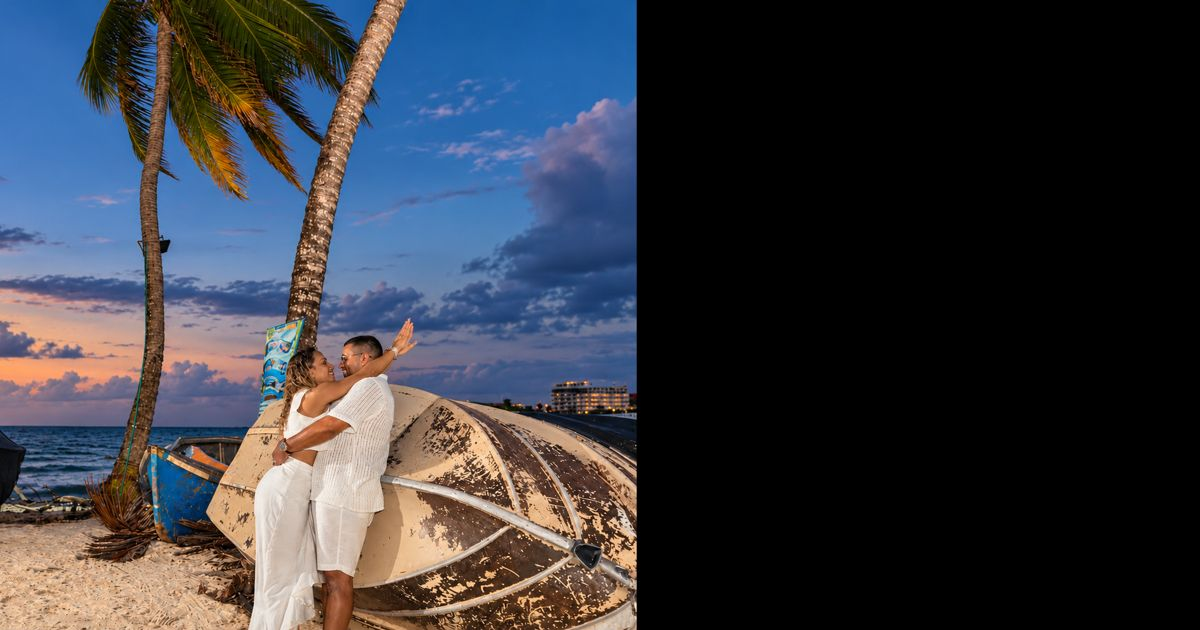
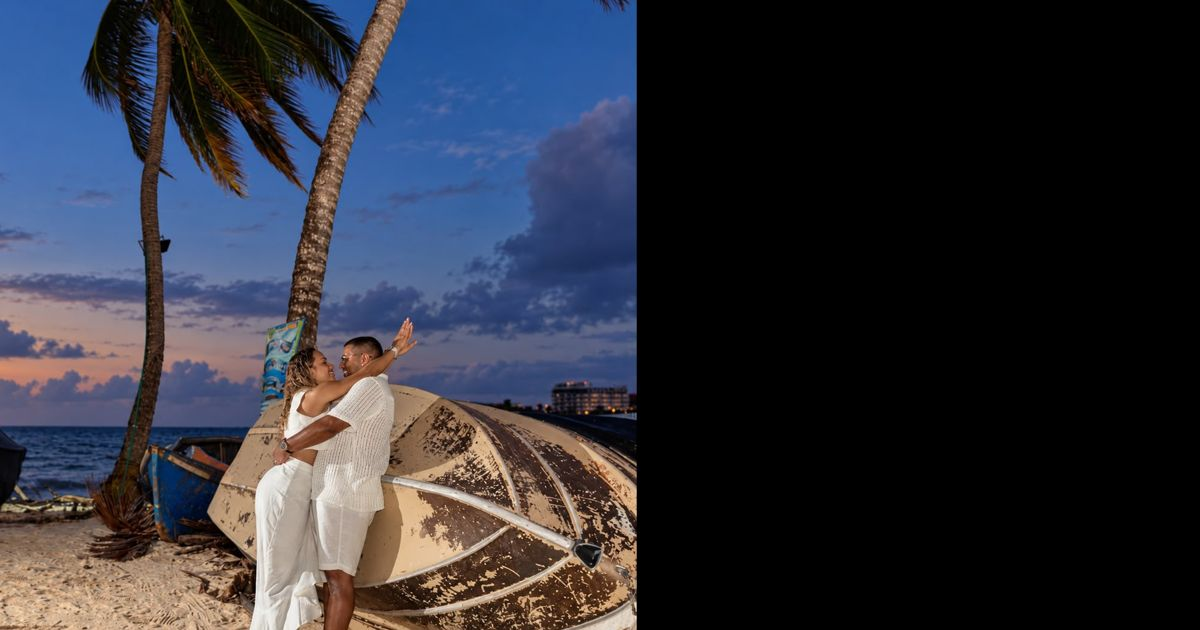
Remove envelope letter, add light burst on open with direct transition to video; restore previous sunset photo
Claude-Session: https://claude.ai/code/session_019F132VGiKqYndudBvgFJkK

diff --git a/index.html b/index.html
@@ -11,7 +11,7 @@
 <meta property="og:title" content="Deivin & Yuliana · Nos casamos">
 <meta property="og:description" content="Con amor y mucha ilusión, te invitamos a celebrar con nosotros · 20.03.2027">
 <meta property="og:image" content="https://karenquinteroboni.github.io/Deivin-Yuliana/assets/img/og.jpg">
-<link rel="preload" as="image" href="assets/img/seal.webp?v=3">
+<link rel="preload" as="image" href="assets/img/seal.webp?v=4">
 <link rel="stylesheet" href="css/fonts.css">
 <link rel="stylesheet" href="css/styles.css">
 </head>
@@ -34,22 +34,15 @@
     <div class="envelope" id="envelope">
       <div class="env-back"></div>
 
-      <div class="letter">
-        <img class="letter-mono" src="assets/img/seal.webp?v=3" alt="" width="120">
-        <p class="letter-small">Con amor y mucha ilusión</p>
-        <p class="letter-for" id="letterFor" hidden></p>
-        <p class="letter-small">20 · 03 · 2027</p>
-      </div>
-
       <div class="flap" id="flap">
-        <div class="flap-face flap-front"><img class="orn orn-top" src="assets/img/orn-top.svg?v=3" alt=""></div>
+        <div class="flap-face flap-front"><img class="orn orn-top" src="assets/img/orn-top.svg?v=4" alt=""></div>
         <div class="flap-face flap-inner"></div>
       </div>
       <div class="pocket"></div>
 
-      <img class="orn orn-side orn-left" src="assets/img/orn-side.svg?v=3" alt="">
-      <img class="orn orn-side orn-right" src="assets/img/orn-side.svg?v=3" alt="">
-      <img class="orn orn-bottom" src="assets/img/orn-bottom.svg?v=3" alt="">
+      <img class="orn orn-side orn-left" src="assets/img/orn-side.svg?v=4" alt="">
+      <img class="orn orn-side orn-right" src="assets/img/orn-side.svg?v=4" alt="">
+      <img class="orn orn-bottom" src="assets/img/orn-bottom.svg?v=4" alt="">
 
       <!-- líneas de pliegue + luces que recorren el sobre desde el sello (se dimensionan por JS) -->
       <svg class="lines" id="lines" aria-hidden="true">
@@ -67,17 +60,20 @@
       </svg>
 
       <button class="seal" id="seal" type="button" aria-label="Abrir invitación: toca el sello">
-        <img src="assets/img/seal.webp?v=3" alt="Sello de lacre con las iniciales D y Y" width="260" height="270">
+        <img src="assets/img/seal.webp?v=4" alt="Sello de lacre con las iniciales D y Y" width="260" height="270">
         <span class="seal-ring" aria-hidden="true"></span>
       </button>
       <p class="hint" id="hint">Toca el sello para abrir</p>
     </div>
   </div>
 
+  <!-- Destello de luz al abrir el sobre -->
+  <div class="flash" id="flash" aria-hidden="true"></div>
+
   <!-- Video de apertura -->
   <div class="walk" id="walk" aria-hidden="true">
-    <video id="walkVideo" muted playsinline preload="auto" poster="assets/img/caminata-poster.jpg?v=3">
-      <source src="assets/media/caminata.mp4?v=3" type="video/mp4">
+    <video id="walkVideo" muted playsinline preload="auto" poster="assets/img/caminata-poster.jpg?v=4">
+      <source src="assets/media/caminata.mp4?v=4" type="video/mp4">
     </video>
     <div class="walk-shade"></div>
     <p class="walk-title">Deivin <span>&amp;</span> Yuliana</p>
@@ -85,7 +81,7 @@
   </div>
 </div>
 
-<audio id="music" src="assets/media/musica.mp3?v=3" loop preload="auto"></audio>
+<audio id="music" src="assets/media/musica.mp3?v=4" loop preload="auto"></audio>
 
 <div class="backdrop" aria-hidden="true"></div>
 
@@ -101,7 +97,7 @@
 </div>
 
 <nav class="menu" id="menu" aria-label="Menú de navegación" hidden>
-  <img class="menu-mono" src="assets/img/monogram.webp?v=3" alt="" width="120">
+  <img class="menu-mono" src="assets/img/monogram.webp?v=4" alt="" width="120">
   <ul>
     <li><a href="#inicio">Inicio</a></li>
     <li><a href="#nos-casamos">Nos casamos</a></li>
@@ -120,7 +116,7 @@
 
   <!-- PORTADA -->
   <section id="inicio" class="hero">
-    <img class="hero-bg" src="assets/img/playa.jpg?v=3" alt="Deivin y Yuliana abrazados al atardecer en la playa">
+    <img class="hero-bg" src="assets/img/playa.jpg?v=4" alt="Deivin y Yuliana abrazados al atardecer en la playa">
     <div class="hero-shade"></div>
     <div class="hero-in reveal">
       <p class="eyebrow">Con amor y mucha ilusión</p>
@@ -136,12 +132,12 @@
     <div class="wm" aria-hidden="true"></div>
     <div class="frame reveal has-relief">
       <div class="relief" aria-hidden="true">
-        <img class="rl rl-l" src="assets/img/orn-side.svg?v=3" alt="">
-        <img class="rl rl-r" src="assets/img/orn-side.svg?v=3" alt="">
-        <img class="rl rl-b" src="assets/img/orn-bottom.svg?v=3" alt="">
+        <img class="rl rl-l" src="assets/img/orn-side.svg?v=4" alt="">
+        <img class="rl rl-r" src="assets/img/orn-side.svg?v=4" alt="">
+        <img class="rl rl-b" src="assets/img/orn-bottom.svg?v=4" alt="">
       </div>
       <span class="corner tl"></span><span class="corner tr"></span><span class="corner bl"></span><span class="corner br"></span>
-      <figure class="arch"><img src="assets/img/pareja.jpg?v=3" alt="Deivin y Yuliana" loading="lazy"></figure>
+      <figure class="arch"><img src="assets/img/pareja.jpg?v=4" alt="Deivin y Yuliana" loading="lazy"></figure>
       <h2 class="sec-title">Nos casamos</h2>
       <p class="lead">Dos corazones, una promesa.<br>Y una historia que apenas comienza.</p>
       <p class="body">Con amor y la ilusión de compartir una vida juntos, hemos decidido unir nuestros caminos para siempre y celebrar el comienzo de una nueva etapa, un día destinado a permanecer por siempre en nuestros corazones.</p>
@@ -192,12 +188,12 @@
 
     <div class="notes reveal">
       <div class="note">
-        <img class="emblem sm" src="assets/img/icon-dulces-suenos.webp?v=3" alt="" width="88" height="85">
+        <img class="emblem sm" src="assets/img/icon-dulces-suenos.webp?v=4" alt="" width="88" height="85">
         <h4>Niños, dulces sueños</h4>
         <p>Para que todos nuestros invitados —incluidos los papás— puedan disfrutar de la fiesta al máximo, hemos optado por una recepción exclusivamente para adultos.</p>
       </div>
       <div class="note">
-        <img class="emblem sm" src="assets/img/icon-parqueadero.webp?v=3" alt="" width="88" height="85">
+        <img class="emblem sm" src="assets/img/icon-parqueadero.webp?v=4" alt="" width="88" height="85">
         <h4>Parqueadero disponible</h4>
         <p>Contaremos con disponibilidad de parqueadero.</p>
       </div>
@@ -235,8 +231,8 @@
     <div class="frame reveal dress">
       <span class="corner tl"></span><span class="corner tr"></span><span class="corner bl"></span><span class="corner br"></span>
       <div class="dress-grid">
-        <div><img class="emblem" src="assets/img/icon-damas.webp?v=3" alt="" width="112" height="108"><p class="card-k">Damas</p><p>Vestido largo de gala.</p></div>
-        <div><img class="emblem" src="assets/img/icon-caballeros.webp?v=3" alt="" width="112" height="108"><p class="card-k">Caballeros</p><p>Esmoquin negro, camisa blanca y corbata negra.</p></div>
+        <div><img class="emblem" src="assets/img/icon-damas.webp?v=4" alt="" width="112" height="108"><p class="card-k">Damas</p><p>Vestido largo de gala.</p></div>
+        <div><img class="emblem" src="assets/img/icon-caballeros.webp?v=4" alt="" width="112" height="108"><p class="card-k">Caballeros</p><p>Esmoquin negro, camisa blanca y corbata negra.</p></div>
       </div>
       <p class="card-k reserved-t">Colores reservados</p>
       <ul class="reserved">
@@ -253,7 +249,7 @@
     <div class="wm" aria-hidden="true"></div>
     <div class="frame reveal slim">
       <span class="corner tl"></span><span class="corner tr"></span><span class="corner bl"></span><span class="corner br"></span>
-      <img class="emblem sm" src="assets/img/icon-sobres.webp?v=3" alt="" width="88" height="85">
+      <img class="emblem sm" src="assets/img/icon-sobres.webp?v=4" alt="" width="88" height="85">
       <h2 class="sec-title small">Lluvia de sobres</h2>
       <p class="body">Nos hace muy felices que compartas este día con nosotros. Si deseas regalarnos algo, en la recepción encontrarás el buzón de la lluvia de sobres.</p>
     </div>
@@ -283,10 +279,10 @@
 
   <!-- DESPEDIDA -->
   <footer class="bye">
-    <img class="bye-bg" src="assets/img/pareja.jpg?v=3" alt="">
+    <img class="bye-bg" src="assets/img/pareja.jpg?v=4" alt="">
     <div class="bye-tint" aria-hidden="true"></div>
     <div class="reveal">
-      <img class="bye-mono" src="assets/img/monogram.webp?v=3" alt="Monograma D y Y" width="220">
+      <img class="bye-mono" src="assets/img/monogram.webp?v=4" alt="Monograma D y Y" width="220">
       <p class="lead">Te esperamos con el corazón</p>
       <p class="names small">Deivin <span>&amp;</span> Yuliana</p>
     </div>

diff --git a/css/styles.css b/css/styles.css
@@ -94,7 +94,6 @@ button{font:inherit;color:inherit;cursor:pointer;background:none;border:0}
   animation:spark .9s ease-out forwards}
 @keyframes spark{to{transform:translate(var(--dx),var(--dy)) scale(.2);opacity:0}}
 
-.intro.leaving .stage{transform:scale(1.5);opacity:0}
 
 /* video de apertura */
 .walk{position:absolute;inset:0;opacity:0;visibility:hidden;background:#000;transition:opacity 1.2s ease,visibility 1.2s}
@@ -140,15 +139,15 @@ body{font-size:var(--fs-body);font-weight:500;line-height:1.65}
 .sec::after{content:"";position:absolute;inset:0;background:var(--grain);opacity:.5;mix-blend-mode:multiply;pointer-events:none}
 .sec>*:not(.wm),.bye>.reveal{position:relative}
 .hero+.sec{box-shadow:0 -1px 0 var(--gold-line)}
-.wm{position:absolute;inset:0;pointer-events:none;background:url(../assets/img/monogram.webp?v=3) center 50%/min(92vw,640px) no-repeat;mix-blend-mode:multiply;opacity:.1}
+.wm{position:absolute;inset:0;pointer-events:none;background:url(../assets/img/monogram.webp?v=4) center 50%/min(92vw,640px) no-repeat;mix-blend-mode:multiply;opacity:.1}
 
 /* fondo fijo que se transparenta (y se desenfoca) a través de cada hoja */
 .backdrop{position:fixed;inset:-30px;z-index:-1;pointer-events:none;filter:blur(6px) saturate(1.05);
   background:radial-gradient(circle at 18% 12%,#3a5fc4 0,transparent 38%),radial-gradient(circle at 88% 38%,#dcbd6e 0,transparent 26%),
     radial-gradient(circle at 12% 70%,#dcbd6e 0,transparent 22%),radial-gradient(circle at 80% 92%,#3a5fc4 0,transparent 40%),
     linear-gradient(180deg,#6d8ad2,#34519f)}
-.backdrop::before{content:"";position:absolute;inset:0;background:url(../assets/img/monogram.webp?v=3) 50% 46%/min(80vw,560px) no-repeat;opacity:.5}
-.backdrop::after{content:"";position:absolute;inset:0;background:url(../assets/img/orn-bottom.svg?v=3) 50% 8%/min(92vw,520px) no-repeat,url(../assets/img/orn-side.svg?v=3) -4% 60%/auto 70vh no-repeat,url(../assets/img/orn-side.svg?v=3) 104% 20%/auto 70vh no-repeat;opacity:.45}
+.backdrop::before{content:"";position:absolute;inset:0;background:url(../assets/img/monogram.webp?v=4) 50% 46%/min(80vw,560px) no-repeat;opacity:.5}
+.backdrop::after{content:"";position:absolute;inset:0;background:url(../assets/img/orn-bottom.svg?v=4) 50% 8%/min(92vw,520px) no-repeat,url(../assets/img/orn-side.svg?v=4) -4% 60%/auto 70vh no-repeat,url(../assets/img/orn-side.svg?v=4) 104% 20%/auto 70vh no-repeat;opacity:.45}
 
 /* ---- texto ---- */
 .eyebrow{font-family:var(--serif);font-weight:600;font-size:var(--fs-label);letter-spacing:.3em;text-transform:uppercase;color:var(--gold-ink);padding-left:.3em}
@@ -302,3 +301,14 @@ textarea::placeholder{color:#55608f;opacity:1}
 @keyframes glow{0%{filter:drop-shadow(0 0 0 #f6d77f)}40%{filter:drop-shadow(0 0 16px #f0c85a)}100%{filter:none}}
 .scratch-hint{font-style:italic;font-weight:500;color:var(--muted);margin-top:4px;transition:opacity .5s}
 .scratch.revealed+.scratch-hint{opacity:0;height:0;margin:0;overflow:hidden}
+
+/* ---- destello de luz al abrir: nace en el sello, llena la pantalla y se disuelve sobre el video ---- */
+.flash{position:absolute;inset:0;z-index:20;pointer-events:none;opacity:0;
+  background:radial-gradient(circle at var(--fx,50%) var(--fy,44%),#fffdf2 0,#fff3c4 14%,#f6d77f 30%,#ffe9a6 52%,#fff8e0 100%);
+  clip-path:circle(0 at var(--fx,50%) var(--fy,44%));transition:none}
+.intro.lit .flash{opacity:1;clip-path:circle(150vmax at var(--fx,50%) var(--fy,44%));transition:clip-path 1.25s cubic-bezier(.55,0,.35,1)}
+.intro.walking .flash{opacity:0;clip-path:circle(150vmax at var(--fx,50%) var(--fy,44%));transition:opacity 1.4s ease}
+.intro.lit .walk{transition:none}
+.intro.walking{transition:none}
+.intro.walking .walk{transition:none}
+.intro.walking .stage{visibility:hidden}

diff --git a/js/main.js b/js/main.js
@@ -39,7 +39,6 @@
 
   guestReady.then(g => {
     guest = g;
-    if (g && g.name) { const p = $('#letterFor'); p.textContent = 'Para ' + g.name; p.hidden = false; }
     renderRSVP();
   });
 
@@ -105,17 +104,22 @@
     env.classList.add('shimmer');                  // recorrido de brillo por la ornamentación
     await wait(2500);
     sparks();
+    const r = seal.getBoundingClientRect();        // la luz nace del sello
+    intro.style.setProperty('--fx', (r.left + r.width / 2) + 'px');
+    intro.style.setProperty('--fy', (r.top + r.height / 2) + 'px');
     env.classList.add('open');                     // se rompe el sello y se abre la solapa
-    await wait(2900);
-    intro.classList.add('leaving');
-    await wait(900);
-    startWalk();
+    await wait(450);
+    intro.classList.add('lit');                  // la luz crece hasta llenar la pantalla
+    video.load();
+    await wait(1250);
+    startWalk();                                   // con la pantalla en luz, entra el video
   }
   seal.addEventListener('click', openInvitation);
 
   function startWalk() {
     if (finished) return;
     intro.classList.add('walking');
+    intro.classList.remove('lit');               // la luz se disuelve y revela el video
     const go = video.play();
     video.addEventListener('ended', finish, { once: true });
     video.addEventListener('error', finish, { once: true });
@@ -238,7 +242,7 @@
 
   /* ---------- enlaces configurables ---------- */
   if (C.dressCodeUrl) $('#dressLink').href = C.dressCodeUrl;
-  if (C.photosUrl) { const q = $('.qr'); q.src = q.dataset.src + '?v=3'; $('#fotos').hidden = false; $('#navFotos').hidden = false; $('#photosLink').href = C.photosUrl; }
+  if (C.photosUrl) { const q = $('.qr'); q.src = q.dataset.src + '?v=4'; $('#fotos').hidden = false; $('#navFotos').hidden = false; $('#photosLink').href = C.photosUrl; }
 
   /* ---------- agregar al calendario (.ics) ---------- */
   $('#addCal').addEventListener('click', () => {
